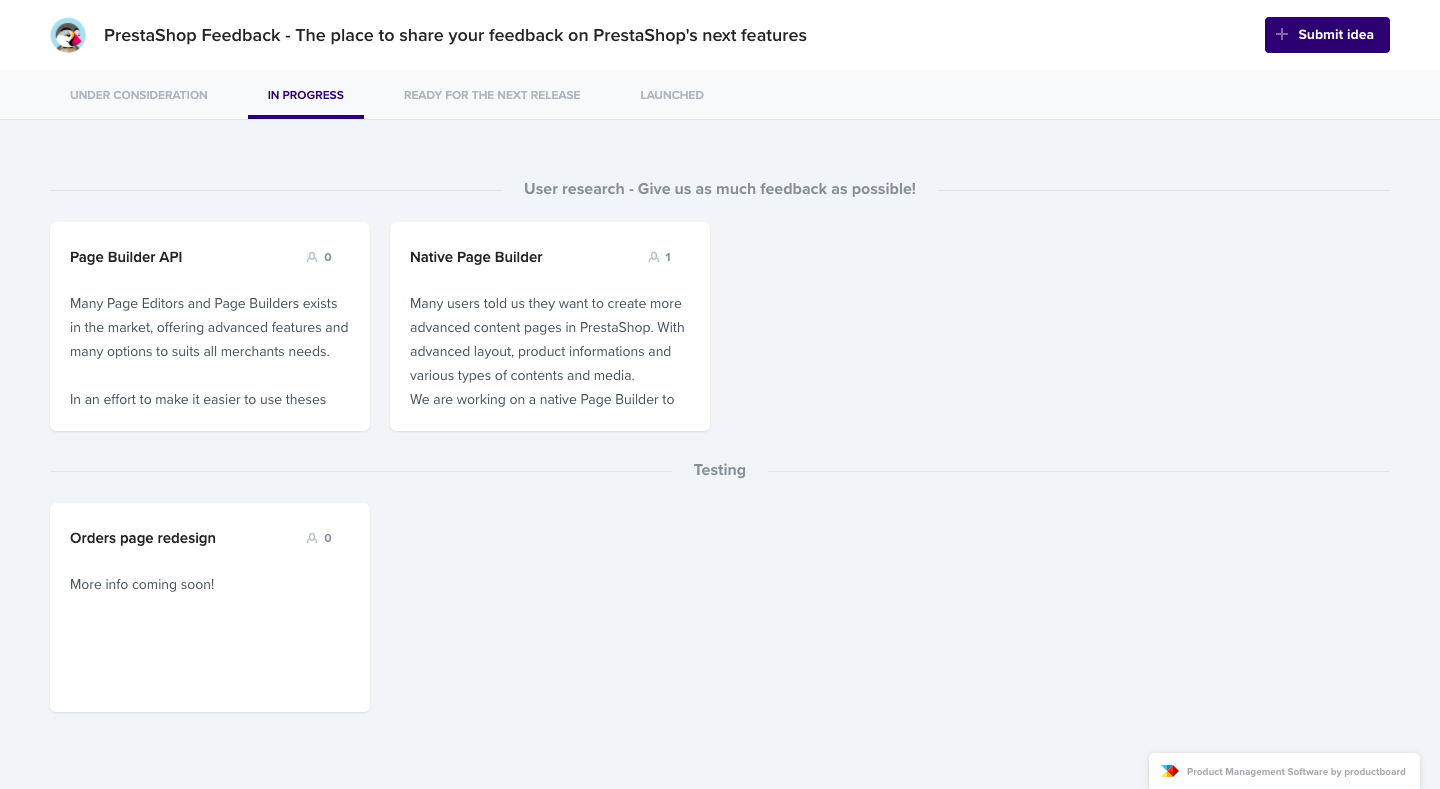
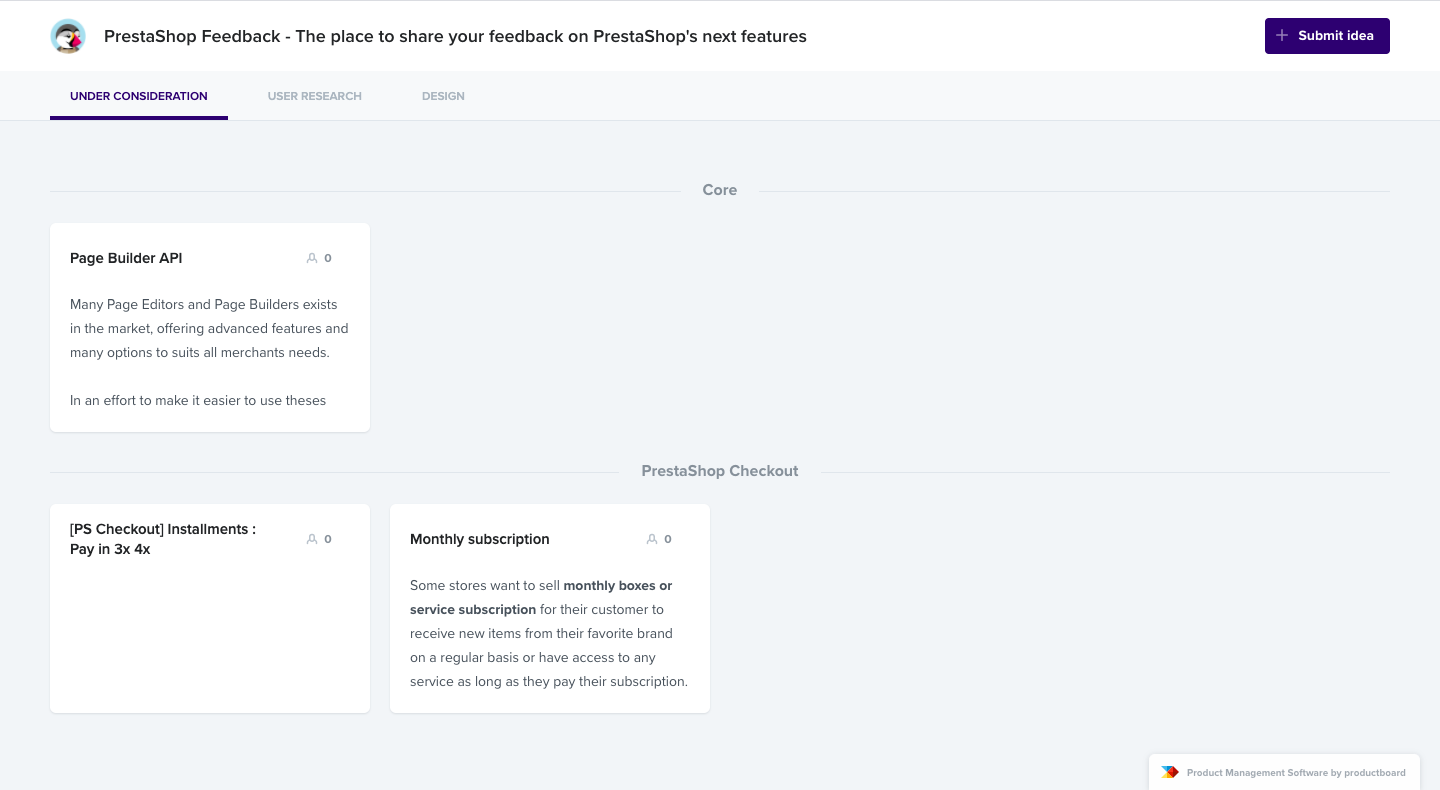
updated the content to focus on PB Now it is only about how to use the portal and not all the product methodology

diff --git a/news/_posts/2020-05-07-productboard-portal-launch.md b/news/_posts/2020-05-07-productboard-portal-launch.md
@@ -1,6 +1,6 @@
 ---
 layout: post
-title:  " A new place to contribute to the PrestaShop roadmap and share your feedback"
+title:  "A new place to contribute to the PrestaShop project and share your feedback on the next features"
 subtitle: "Discover PrestaShop's new tool to collect feedback and better prioritize what to build next!"
 date:   2020-05-07 10:00:00
 authors: [ SamuelPires ]
@@ -18,106 +18,13 @@ tags:
 In March 2020, the product team at PrestaShop, in charge of building and prioritizing new features, decided to work with a new tool: [Productboard](https://www.productboard.com). It helps product managers to create relevant roadmaps by evaluating features and tracking their development.
 
 Productboard made two things possible for the team:
-- Having a team interface to centralize all feedback, organize them, define features, prioritize them, and follow their development.
+- Having a team interface to centralize all feedback, organize them, define features, and prioritize them.
 - Having a public space, where the team is able to publicly present these features and to collect feedback about them. **And that is what this article is about.**
 
-So the team has created this space called [**PrestaShop Feedback**](https://feedback.prestashop.com) where anyone can comment, and vote for the next features in the roadmap, whether you are a merchant, a developer, an agency, a seller on the [Addons Marketplace](http://addons.prestashop.com/),...
+So the team has created this space called [**PrestaShop Feedback**](https://feedback.prestashop.com) where anyone can comment, and vote for the next features the team is working on, whether you are a merchant, a developer, an agency, a seller on the [Addons Marketplace](http://addons.prestashop.com/),...
 This space is accessible at [feedback.prestashop.com](https://feedback.prestashop.com).
 
-Before explaining how to use the **PrestaShop Feedback** website in the [second part](#how-to-use-prestashop-feedback), here is some context and information about how product development is done at PrestaShop. We’ll try to keep it short here, feel free to ask the team if you want to learn more about it.
-
-If you just want to learn how to use PrestaShop Feedback, [click here](#how-to-use-prestashop-feedback)
-
-
-## PrestaShop’s product development cycle
-
-### The Core product team
-At the Prestashop company, a team is dedicated to maintaining the PrestaShop open source project: the Core team.
-Its mission is to make sure the software is stable, usable, delivers value to its users and follows the industry standards.
-All this requires several people and several skills. Today the Core team is composed of developers, QA engineers, designers and product managers.
-Editing and maintaining a software like PrestaShop means fixing bugs but also adding improvements and new features.
-
-While bug fixing is most of the time handled directly by developers (from the Core team and the community 😉), features design and development are much more complex. Why? Because the goal of any feature is to help users achieve something, **behind every feature there should be a user need**.
-
-As a team working on a software, when you add a feature you are making the software more complex- more complex to use and more complex to maintain. So, on one hand, you can’t afford to add any useless feature and, on the other hand, you have to make sure what you add is usable.
-And that’s where product managers and designers are needed.
-Product managers are responsible for making sure the software delivers value to its users. And the first steps to do so are to know which features to improve or to create, and more importantly to know which users’ needs you have to solve.
-
-Once you know where to focus and what you are trying to solve, you have to design this feature, to make it tangible, usable and coherent with the existing software. That is the designers’ and the product content manager's responsibility.
-
-While the product manager’s job is to identify the problem to solve, the designer's job is to design the best solution, of course, this is done in collaboration, as a duo. And then the whole team altogether can start building the feature.
-
-
-Currently the Core team counts 9 developers, 5 QA engineers, 2 designers and 5 product managers.
-
-### How to know what to focus on?
-
-Everything starts with feedback. Without feedback, without talking with your users, you are blind, lost in the fog.
-
-PrestaShop being an open source project, the team can rely on its tremendous community to gather feedback, identify pain points and discuss many topics.
-Right now, collecting feedback is not difficult, Github is probably the main source, but there are also events such as [ambassadors' meetups](http://ambassadors.prestashop.com/ambassadors) and [PSD](https://events.prestashop.com/), user interviews regularly conducted by the product team and the [community Slack](https://github.com/PrestaShop/open-source/blob/master/slack/readme.md).
-The team also keeps an eye on what’s happening around in the e-commerce and CMS industries to make sure the software goes in the right direction regarding the market's evolutions and expectations.
-
-Collecting feedback is easy. What is more difficult is to centralize and analyze it in order to identify the users’ needs lying behind.
-
-Productboard will help the team here. By making it easier and automatic to centralize feedback directly in the same place. Wherever it comes from.
-The team calls these feedback **insights**. On Productboard, product managers can create topics to group **insights** together, this step helps form a first **expression of needs**. Sometimes the expression of needs already gives the best solution, sometimes it is still a bit early to know how it could be solved.
-
-What’s in it for the community? Well Productboard also makes it possible to share that externally.
-This is great to inform the community about what the team has identified, and also to keep collecting more information about it to improve the team’s understanding on this problem.
-**You are now able to see these expressions of needs on the PrestaShop Feedback website.**
-
-### How to go from a need to a feature?
-Centralizing and analyzing insights is difficult.
-Well, the next step in product development is even more difficult: prioritizing the users' needs.
-
-PrestaShop is used on 300k+ online stores around the world, and its community gathers more than 1 million people.
-There are hundreds of needs out there, waiting to be solved. So how does the team decide what to build next?
-
-The Core product team uses several criteria to evaluate the importance of a need. There is no scientific, or magical, formula. It is a list of aspects that the team reviews in light of the research and analysis previously run. Among these aspects are:
-
-- legal requirements,
-- the impact on the merchants’ businesses,
-- the impact on merchant productivity,
-- the impact on the developer experience,
-- and many more...
-
-As you can see, it is important for the team to take into account all the impacts of solving a need, and building features.
-And that is something that Productboard makes easier too.
-
-In the PrestaShop Feedback space, as a visitor, it is possible not only to add comments but also to rate the impact of an expression of needs or a feature on oneself. Three values exist: Nice-to-have, Important, and Critical.
-This rating is directly taken into account in Productboard and gives a **user score**. More about it in the second part.
-
-
-### Designing a feature
-Lastly, once you know what to focus on, and what you should work on next, it is actually time to design the feature, to define what to build.
-
-All the product development process at PrestaShop is summarized in the following chart.
-
-![Product development steps at PrestaShop](/assets/images/2020/05/product-development-steps.png)
-
-Designing a feature means defining what is the best solution to a problem, a need.
-There are many ways to solve a problem. But design is not about solving a problem, it is about solving a problem the best way possible and with elegance.
-
-The usual process to design and build a feature is the following:
-- User Research
-- Prototyping
-- Specifications
-- Development
-- QA testing
-- Release
-
-And sometimes there are several iterations in between to reach a complete feature.
-
-Well, that is also something that the Core product team will be able to share publicly from now on thanks to Productboard. You’ll be able to see the features “In progress”, and at which step they are in the process.
-Once again, you will have the possibility to comment and share your opinion on what is being built. You can even reach us out if you want to take part in any prototype testing and/or development. We will appreciate it a lot!
-
-
-
-Overall, Productboard will improve PrestaShop’s product development transparency and facilitate contributions from the community at every step of the process. From sharing an insight, to rating a need to solve, to contributing the user research, your voice will be heard and taken directly into account. That is the goal behind this move to Productboard.
-
-
-Here is the second part, where you’ll learn more about the PrestaShop Feedback interface.
+The goal of this article is to explain how to use the PrestaShop Feedback interface to share your feedback on upcoming features.
 
 
 ## How to use PrestaShop Feedback
@@ -127,25 +34,23 @@ Here is the second part, where you’ll learn more about the PrestaShop Feedback
 Each feature or expression of needs is represented by a card that includes a title and a description, sometimes an image.
 Click on a card to learn more about it.
 
-All cards fall into several tabs, each corresponding to a specific step in the development of a feature:
+All cards fall into several tabs, each corresponding to a specific step in the product development:
 - Under consideration
-- In progress
-- Ready for the next release
-- Launched
+- User research
+- Design
 
 ![PrestaShop Feedback home](/assets/images/2020/05/productboard-home.png)
 
 #### Under consideration
-Lists all cards that are already specified. At this point, rating it and let the team know why this feature is important helps us prioritize it.
+Lists all topics and some features that are already well structured and identified. At this step rating a card and telling the team why it is important will help the team prioritize it.
 
-#### In progress
-Lists all features in progress and distributes them among five sections: User Research, Prototyping, Specifications, Development, QA testing.
+### User research
+Lists all the features the product team has decided to work on at the moment. When the team starts working on a feature, the first step is always to conduct some user research to understand which types of users need this feature, what are the use cases around it, and what’s its purpose.
+The goal of the user research is to identify the problem or need, to solve.
 
-#### Ready for the next version
-Lists all features that are already developed and thus available on GitHub's latest branch. In short, it means those features will be accessible in the next minor release: 1.7.7, 1.7.8, etc.
-
-#### Launched
-Lists all released features.
+#### Design
+Once the problem is identified, the designers start working on the best solution to solve it.
+This tab lists all the features going under design.
 
 
 ### Comment and vote for existing ideas
